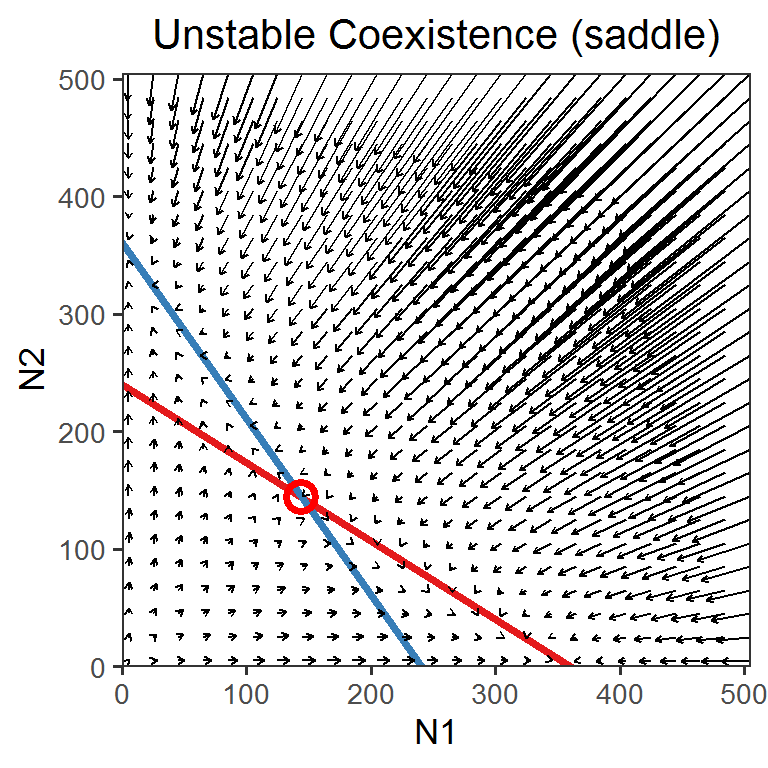
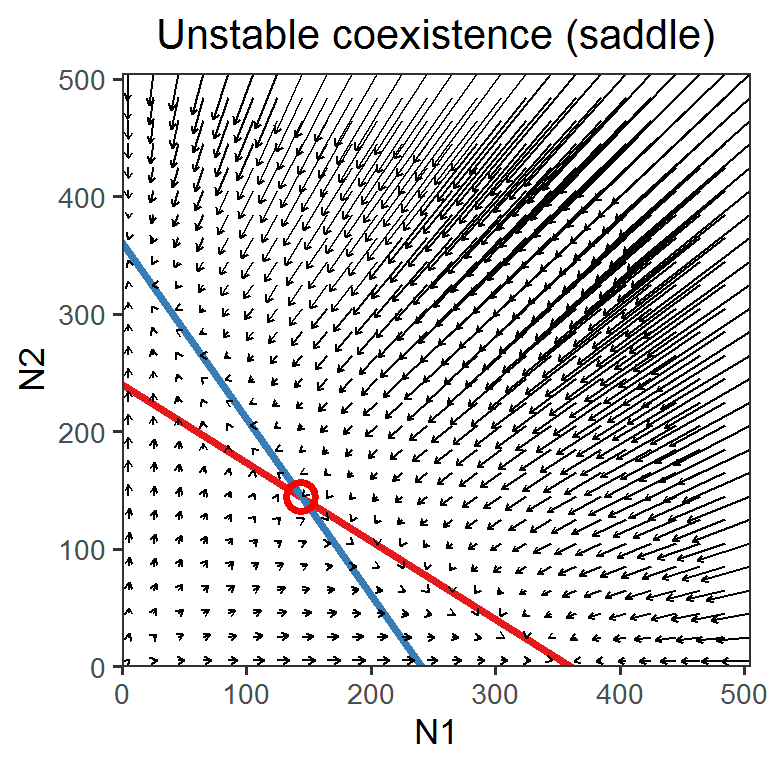
update

Changed region(s): [[0.1875, 0.0, 0.9375, 0.0938]]

diff --git a/docs/week-7.html b/docs/week-7.html
@@ -244,7 +244,7 @@ code span.wa { color: #60a0b0; font-weight: bold; font-style: italic; } /* Warni
 <h2>Lab demonstration</h2>
 <p>In this lab, we are going to analyze the two-species Lotka-Volterra competition model numerically and visualize the population dynamics under different parameter settings.</p>
 <p><br></p>
-<p>Here are the phase planes of the systems in which (1) two species exhibit stable coexistence and (2) two species exhibit unstable coexistence (saddle point).</p>
+<p>Here are the phase planes of the systems in which (1) two species exhibit stable coexistence and (2) two species exhibit unstable coexistence (saddle).</p>
 <div class="sourceCode" id="cb30"><pre class="sourceCode r"><code class="sourceCode r"><span id="cb30-1"><a href="week-7.html#cb30-1" aria-hidden="true" tabindex="-1"></a>phase_plane <span class="ot">&lt;-</span> <span class="cf">function</span>(r1, r2, a11, a21, a22, a12, title, shape){</span>
 <span id="cb30-2"><a href="week-7.html#cb30-2" aria-hidden="true" tabindex="-1"></a>  <span class="do">### Vectors</span></span>
 <span id="cb30-3"><a href="week-7.html#cb30-3" aria-hidden="true" tabindex="-1"></a>  LV_competition_model <span class="ot">&lt;-</span> <span class="cf">function</span>(times, state, parms) {</span>
@@ -291,9 +291,9 @@ code span.wa { color: #60a0b0; font-weight: bold; font-style: italic; } /* Warni
 <span id="cb30-44"><a href="week-7.html#cb30-44" aria-hidden="true" tabindex="-1"></a>    <span class="fu">labs</span>(<span class="at">title =</span> title)</span>
 <span id="cb30-45"><a href="week-7.html#cb30-45" aria-hidden="true" tabindex="-1"></a>}</span>
 <span id="cb30-46"><a href="week-7.html#cb30-46" aria-hidden="true" tabindex="-1"></a></span>
-<span id="cb30-47"><a href="week-7.html#cb30-47" aria-hidden="true" tabindex="-1"></a><span class="fu">phase_plane</span>(<span class="at">r1 =</span> <span class="fl">1.2</span>, <span class="at">r2 =</span> <span class="fl">1.2</span>, <span class="at">a11 =</span> <span class="dv">1</span><span class="sc">/</span><span class="dv">200</span>, <span class="at">a21 =</span> <span class="dv">1</span><span class="sc">/</span><span class="dv">300</span>, <span class="at">a22 =</span> <span class="dv">1</span><span class="sc">/</span><span class="dv">200</span>, <span class="at">a12 =</span> <span class="dv">1</span><span class="sc">/</span><span class="dv">300</span>, <span class="at">title =</span> <span class="st">&quot;Stable Coexistence&quot;</span>, <span class="at">shape =</span> <span class="dv">16</span>)</span></code></pre></div>
+<span id="cb30-47"><a href="week-7.html#cb30-47" aria-hidden="true" tabindex="-1"></a><span class="fu">phase_plane</span>(<span class="at">r1 =</span> <span class="fl">1.2</span>, <span class="at">r2 =</span> <span class="fl">1.2</span>, <span class="at">a11 =</span> <span class="dv">1</span><span class="sc">/</span><span class="dv">200</span>, <span class="at">a21 =</span> <span class="dv">1</span><span class="sc">/</span><span class="dv">300</span>, <span class="at">a22 =</span> <span class="dv">1</span><span class="sc">/</span><span class="dv">200</span>, <span class="at">a12 =</span> <span class="dv">1</span><span class="sc">/</span><span class="dv">300</span>, <span class="at">title =</span> <span class="st">&quot;Stable coexistence&quot;</span>, <span class="at">shape =</span> <span class="dv">16</span>)</span></code></pre></div>
 <p><img src="07_Week_7_files/figure-html/unnamed-chunk-2-1.png" width="70%" style="display: block; margin: auto;" /></p>
-<div class="sourceCode" id="cb31"><pre class="sourceCode r"><code class="sourceCode r"><span id="cb31-1"><a href="week-7.html#cb31-1" aria-hidden="true" tabindex="-1"></a><span class="fu">phase_plane</span>(<span class="at">r1 =</span> <span class="fl">1.2</span>, <span class="at">r2 =</span> <span class="fl">1.2</span>, <span class="at">a11 =</span> <span class="dv">1</span><span class="sc">/</span><span class="dv">300</span>, <span class="at">a21 =</span> <span class="dv">1</span><span class="sc">/</span><span class="dv">200</span>, <span class="at">a22 =</span> <span class="dv">1</span><span class="sc">/</span><span class="dv">300</span>, <span class="at">a12 =</span> <span class="dv">1</span><span class="sc">/</span><span class="dv">200</span>, <span class="at">title =</span> <span class="st">&quot;Unstable Coexistence (saddle)&quot;</span>, <span class="at">shape =</span> <span class="dv">1</span>)</span></code></pre></div>
+<div class="sourceCode" id="cb31"><pre class="sourceCode r"><code class="sourceCode r"><span id="cb31-1"><a href="week-7.html#cb31-1" aria-hidden="true" tabindex="-1"></a><span class="fu">phase_plane</span>(<span class="at">r1 =</span> <span class="fl">1.2</span>, <span class="at">r2 =</span> <span class="fl">1.2</span>, <span class="at">a11 =</span> <span class="dv">1</span><span class="sc">/</span><span class="dv">300</span>, <span class="at">a21 =</span> <span class="dv">1</span><span class="sc">/</span><span class="dv">200</span>, <span class="at">a22 =</span> <span class="dv">1</span><span class="sc">/</span><span class="dv">300</span>, <span class="at">a12 =</span> <span class="dv">1</span><span class="sc">/</span><span class="dv">200</span>, <span class="at">title =</span> <span class="st">&quot;Unstable coexistence (saddle)&quot;</span>, <span class="at">shape =</span> <span class="dv">1</span>)</span></code></pre></div>
 <p><img src="07_Week_7_files/figure-html/unnamed-chunk-2-2.png" width="70%" style="display: block; margin: auto;" />
 <br></p>
 </div>

diff --git a/docs/07_Week_7.md b/docs/07_Week_7.md
@@ -28,7 +28,7 @@ In this lab, we are going to analyze the two-species Lotka-Volterra competition 
 
 <br>
 
-Here are the phase planes of the systems in which (1) two species exhibit stable coexistence and (2) two species exhibit unstable coexistence (saddle point).
+Here are the phase planes of the systems in which (1) two species exhibit stable coexistence and (2) two species exhibit unstable coexistence (saddle).
 
 
 ```r
@@ -78,13 +78,13 @@ phase_plane <- function(r1, r2, a11, a21, a22, a12, title, shape){
     labs(title = title)
 }
 
-phase_plane(r1 = 1.2, r2 = 1.2, a11 = 1/200, a21 = 1/300, a22 = 1/200, a12 = 1/300, title = "Stable Coexistence", shape = 16)
+phase_plane(r1 = 1.2, r2 = 1.2, a11 = 1/200, a21 = 1/300, a22 = 1/200, a12 = 1/300, title = "Stable coexistence", shape = 16)
 ```
 
 <img src="07_Week_7_files/figure-html/unnamed-chunk-2-1.png" width="70%" style="display: block; margin: auto;" />
 
 ```r
-phase_plane(r1 = 1.2, r2 = 1.2, a11 = 1/300, a21 = 1/200, a22 = 1/300, a12 = 1/200, title = "Unstable Coexistence (saddle)", shape = 1)
+phase_plane(r1 = 1.2, r2 = 1.2, a11 = 1/300, a21 = 1/200, a22 = 1/300, a12 = 1/200, title = "Unstable coexistence (saddle)", shape = 1)
 ```
 
 <img src="07_Week_7_files/figure-html/unnamed-chunk-2-2.png" width="70%" style="display: block; margin: auto;" />
